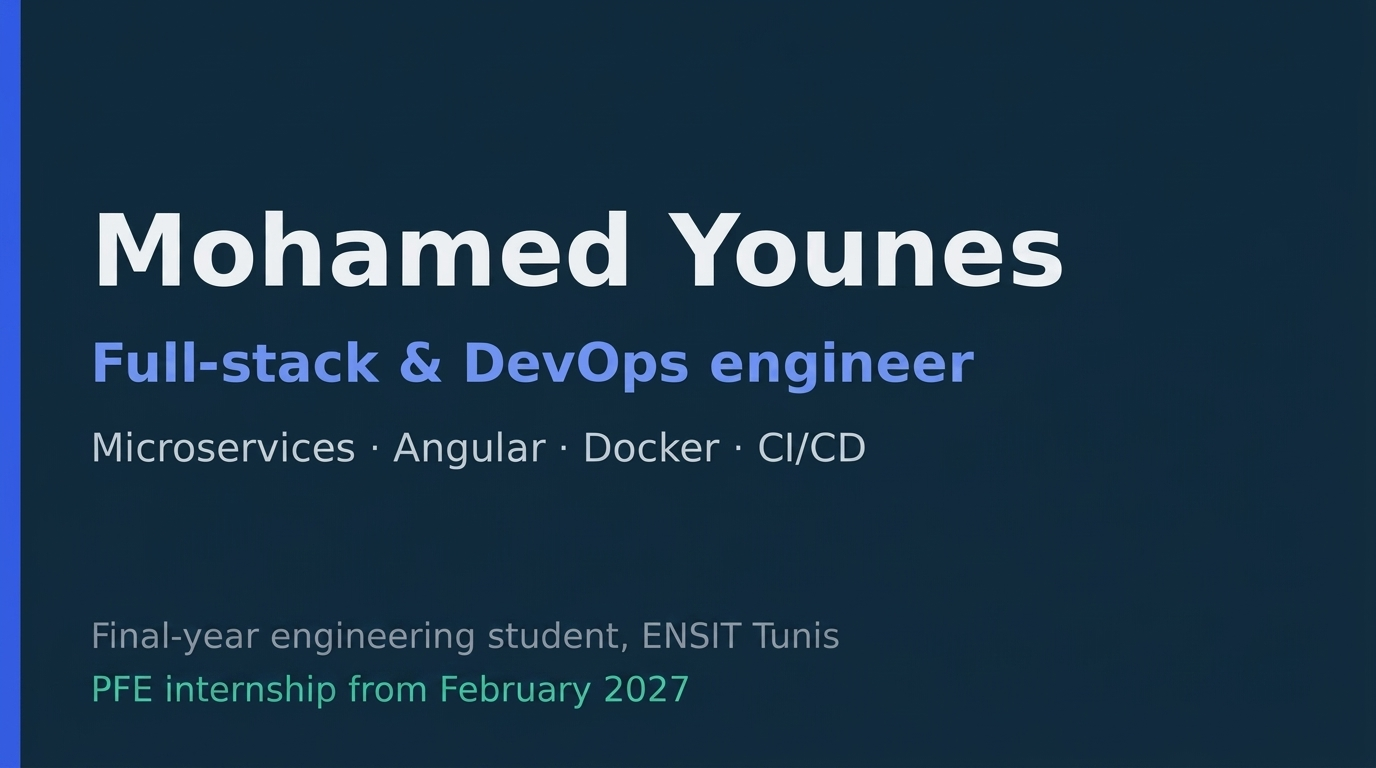
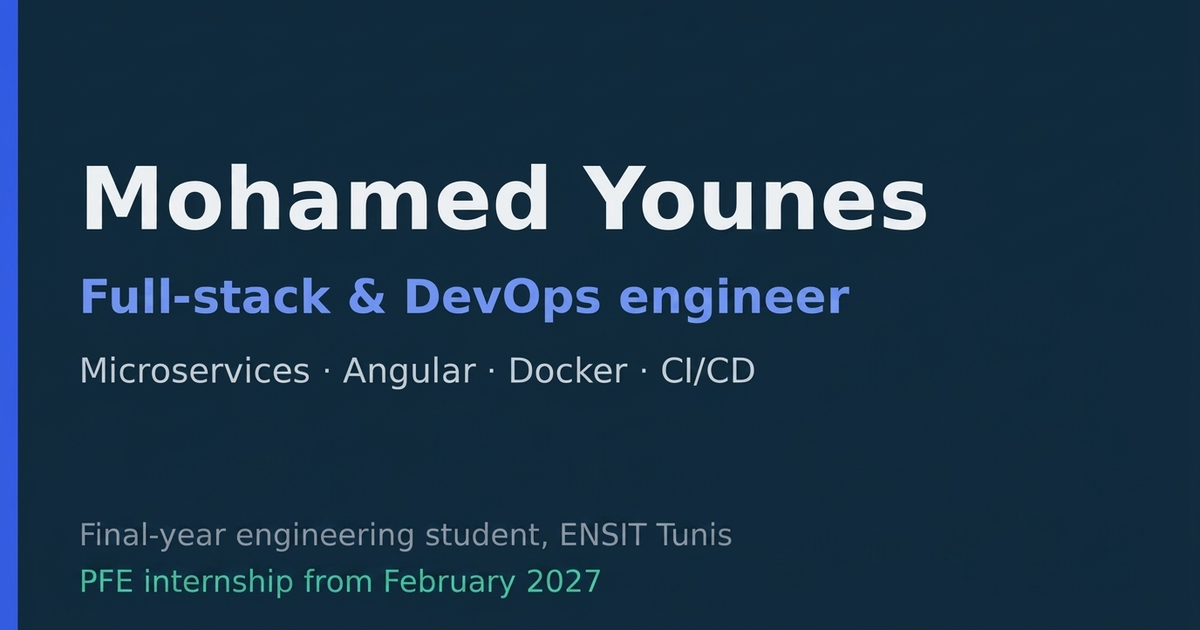
Changing the image dimension

diff --git a/index.html b/index.html
@@ -3,22 +3,22 @@
 <head>
 <meta charset="utf-8">
 <meta name="viewport" content="width=device-width, initial-scale=1">
-<title>Mohamed Younes – Full-stack & DevOps Engineer</title>
+<title>Mohamed Younes – Full-stack &amp; DevOps Engineer</title>
 <meta name="description" content="Final-year computer engineering student at ENSIT (Tunis) building microservices, REST APIs, Angular apps and CI/CD pipelines. Seeking a 6-month PFE internship from February 2027.">
 <link rel="canonical" href="https://medyounes004.github.io/">
 <meta name="author" content="Mohamed Younes">
-<meta property="og:title" content="Mohamed Younes – Full-stack & DevOps Engineer">
+<meta property="og:title" content="Mohamed Younes – Full-stack &amp; DevOps Engineer">
 <meta property="og:description" content="Microservices, Angular, Docker and CI/CD. Seeking a PFE internship from February 2027.">
 <meta property="og:type" content="website">
 <meta property="og:url" content="https://medyounes004.github.io/">
-<meta property="og:image" content="https://medyounes004.github.io/og-image.png">
+<meta property="og:image" content="https://medyounes004.github.io/og-image.png?v=2">
 <meta property="og:image:width" content="1200">
 <meta property="og:image:height" content="630">
 <meta property="og:image:alt" content="Mohamed Younes, Full-stack and DevOps engineer">
 <meta name="twitter:card" content="summary_large_image">
-<meta name="twitter:title" content="Mohamed Younes – Full-stack & DevOps Engineer">
+<meta name="twitter:title" content="Mohamed Younes – Full-stack &amp; DevOps Engineer">
 <meta name="twitter:description" content="Microservices, Angular, Docker and CI/CD. Seeking a PFE internship from February 2027.">
-<meta name="twitter:image" content="https://medyounes004.github.io/og-image.png">
+<meta name="twitter:image" content="https://medyounes004.github.io/og-image.png?v=2">
 <script type="application/ld+json">
 {"@context":"https://schema.org","@type":"Person","name":"Mohamed Younes","url":"https://medyounes004.github.io/","email":"mailto:mohamed.younes@ensit.u-tunis.tn","jobTitle":"Full-stack & DevOps engineering student","alumniOf":{"@type":"CollegeOrUniversity","name":"École Nationale Supérieure d'Ingénieurs de Tunis (ENSIT)"},"address":{"@type":"PostalAddress","addressLocality":"Tunis","addressCountry":"TN"},"sameAs":["https://www.linkedin.com/in/mohamed-younes-3a6465331","https://github.com/MedYounes004"],"knowsAbout":["Microservices","Spring Boot","Angular","Docker","CI/CD","FastAPI","MLOps"]}
 </script>
